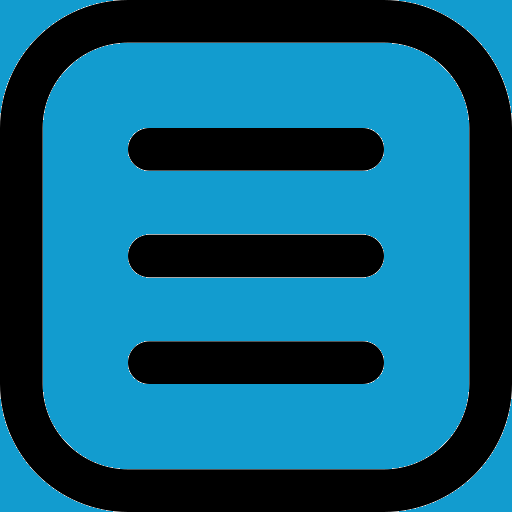
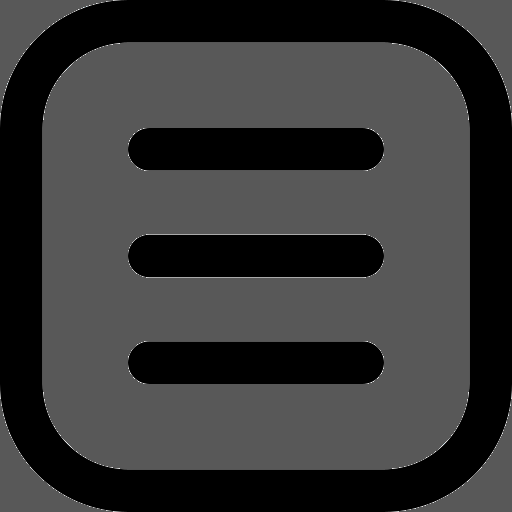
Alpha 2.1

diff --git a/main.css b/main.css
@@ -1,12 +1,15 @@
 #menu {
     display: none;
-    background-color: #126a8d;
-    position: fixed;
+    background-color: #656565;
+    position:absolute;
     height: 220px;
     width: 190px;
     border-radius: 13px;
     margin-left: 18px;
     opacity: 0.90;
+    font-family: Arial, Helvetica, sans-serif;
+    font-size: 15px;
+    
     
 }
 
@@ -18,13 +21,13 @@
     margin-left: -5px;
 }
 
-#menu p:hover {
+#menu li:hover {
     color: rgb(255, 255, 255);
     cursor: pointer;
 }
 
 .head {
-    background-color: #0D97CE;
+    background-color: #585858;
     margin-top: -10px;
     margin-left: -20px;
     margin-right: -20px;
@@ -33,8 +36,9 @@
 #titulo {
     text-align: center;
     font-size: 110px;
-    color: rgb(8, 104, 107);
-    -webkit-text-stroke: 1px black;
+    font-family: 'Segoe UI', Tahoma, Geneva, Verdana, sans-serif;
+    color: #ffffff;
+    -webkit-text-stroke: 3px black;
     margin-bottom: 15px;
     margin-top: -10px;
 
@@ -47,7 +51,7 @@
 }
 
 p:hover {
-    color: rgb(177, 5, 177);
+    color: #A9424A;
     cursor: pointer;
 }
 
@@ -83,17 +87,43 @@ ol li {
 }
 .opcoes{
     margin: 20px;
-    background-color:rgb(238, 229, 229);
+    background-color: #656565;
     text-align: center;
     border-radius: 10px;
+    height: 80px;
+    padding: 0.9px;
     
+}
+.opcoes:hover{
+    background-color: #808080;
+    cursor: pointer;
 }
 .mcontainer{
  width: 600px;
- background-color: rgb(54, 100, 100);
+ background-color: #4a4a4a;
  height: auto;
  padding: 10px;
  margin: auto;
  border-radius: 10px;
 box-shadow: 3px 5px 4px rgb(177, 172, 172);
 }
+#solicitacao{
+    color: #4a4a4a;
+    text-align: center;
+
+}
+#aboutText{
+    text-align: justify;
+    
+}
+.acontainer{
+    background-color: #A6A1A1;
+    margin: 5%;
+    border-radius: 10px;
+    padding: 20px;
+}
+body{
+    color: #313131;
+}
+
+

diff --git a/main.js b/main.js
@@ -1,4 +1,3 @@
-const mainText = '<p>Solicitação:</p><ol><li onclick="inPrSof()">Instalação de Programa/Software.</li><li onclick="reDeFis()">Reparação de defeito físico.</li><li onclick="inNoAp()">Instalação de novo aparelho.</li><li onclick="coImSc()">Configuração de Impressora/Scan</li></ol>'
 
 var menuButton = document.getElementById("menu-button");
 var menu = document.getElementById("menu");
@@ -26,10 +25,10 @@ function coImSc() {
   document.getElementById("activities").innerHTML = '<p>Faça um breve resumo do problema apresentado</p> <form id="default"> <input type="text"> <br><input type="submit" onclick="goBack()" value="Voltar"><input type="submit"></form>';
 }
 function goBack() {
-  document.getElementById("activities").innerHTML = mainText
+  document.getElementById("activities").reload()
 
 }
 function aboutCreators() {
-  document.getElementById("activities").innerHTML = '<h3>Sobre o Desenvolvimento</h3><p>Site desenvolvido integralmente surporte técnico para colaboradores da escola e fins institucionais  </p><h3>Lista de Developers:</h3><p><ul><li>Victor Trindade Cerqueira</li><li>Jeremias Habacuque</li></ul></p><h3>Integrantes do projeto</h3><p><ul><li>Antonio Carlos</li><li>Gabriel Costa</li><li>Geisiane Dias</li><li>Felipe Souza</li></ul</p>'
+  document.getElementById("activities").innerHTML = '<div class="acontainer"><h3>Sobre o Desenvolvimento</h3><h4 id="aboutText">Site desenvolvido integralmente surporte técnico para colaboradores da escola e fins institucionais  </h4><h3>Lista de Developers:</h3><p><ul><li>Victor Trindade Cerqueira</li><li>Jeremias Habacuque</li></ul></p><h3>Integrantes do projeto</h3><p><ul><li>Antonio Carlos</li><li>Gabriel Costa</li><li>Geisiane Dias</li><li>Felipe Souza</li></ul</p></div>'
 }
 

diff --git a/main.html b/main.html
@@ -16,18 +16,18 @@
             <img src="assets/list_3161836.png" alt="" id="menu-button">
             <div id="menu">
                 <ul>
-                    <li onclick="goBack()"><img src="assets/icons8-home-50.png" alt="">Home</li>
+                    <li onclick="goBack()"><img src="assets/icons8-home-50.png">HOME</li>
                     <li onclick="aboutCreators()"><img src="assets/icons8-about-30.png" alt="">About</li>
-                    <li><img src="assets/logout.png" alt="">Sign out</li>
+                    <li><img src="assets/logout.png" alt="">SIGN IN</li>
                 </ul>
             </div>
             <img id="logo-img" src="assets/ceaat logo.jpg" alt="">
-            <h1 id="titulo">E-sosti CEAAT</h1><img sr9c="assets/header_block.png">
+            <h1 id="titulo">E-SOSTI CEAAT</h1><img sr9c="assets/header_block.png">
 
         </div>
         <div class="section">
             <section id="activities">
-                <p>Solicitação:</p>
+                <p id="solicitacao">Solicitação:</p>
 
                 <div class="mcontainer">
                     <div class="opcoes">
